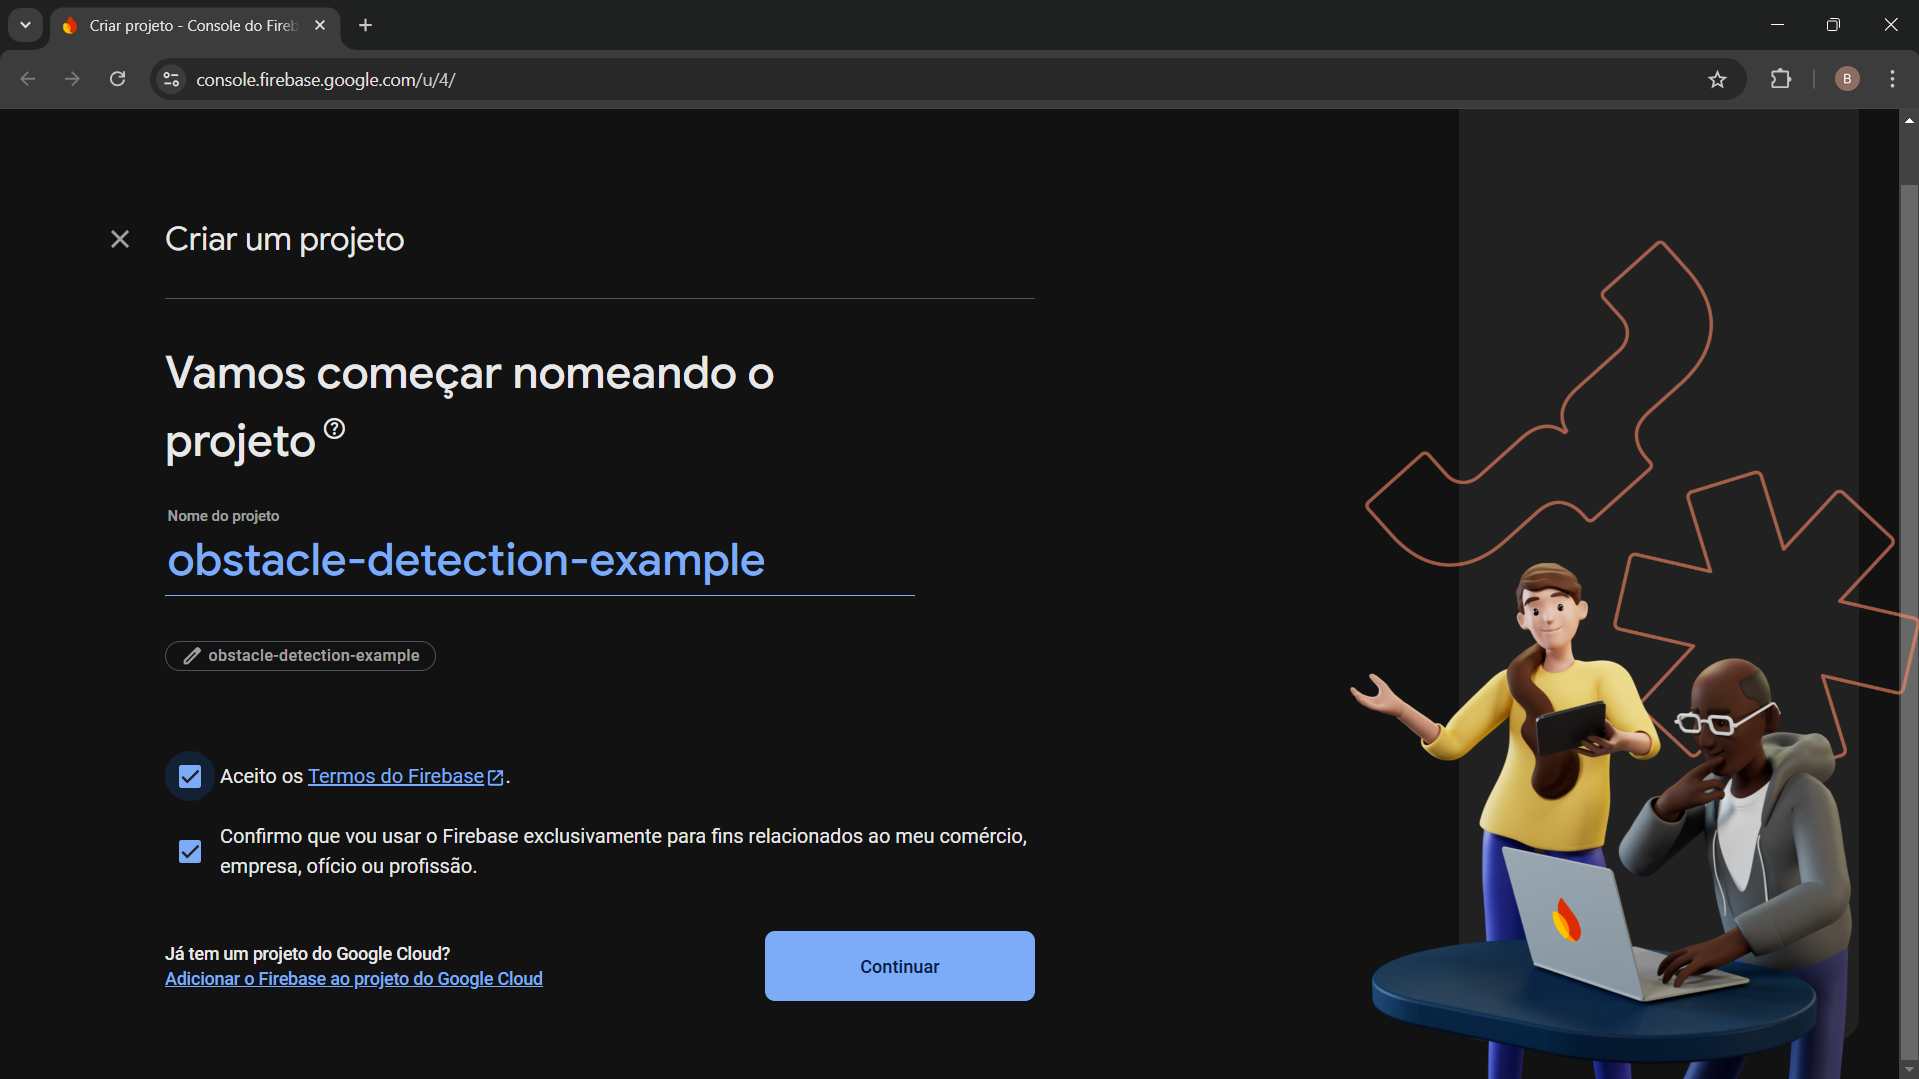
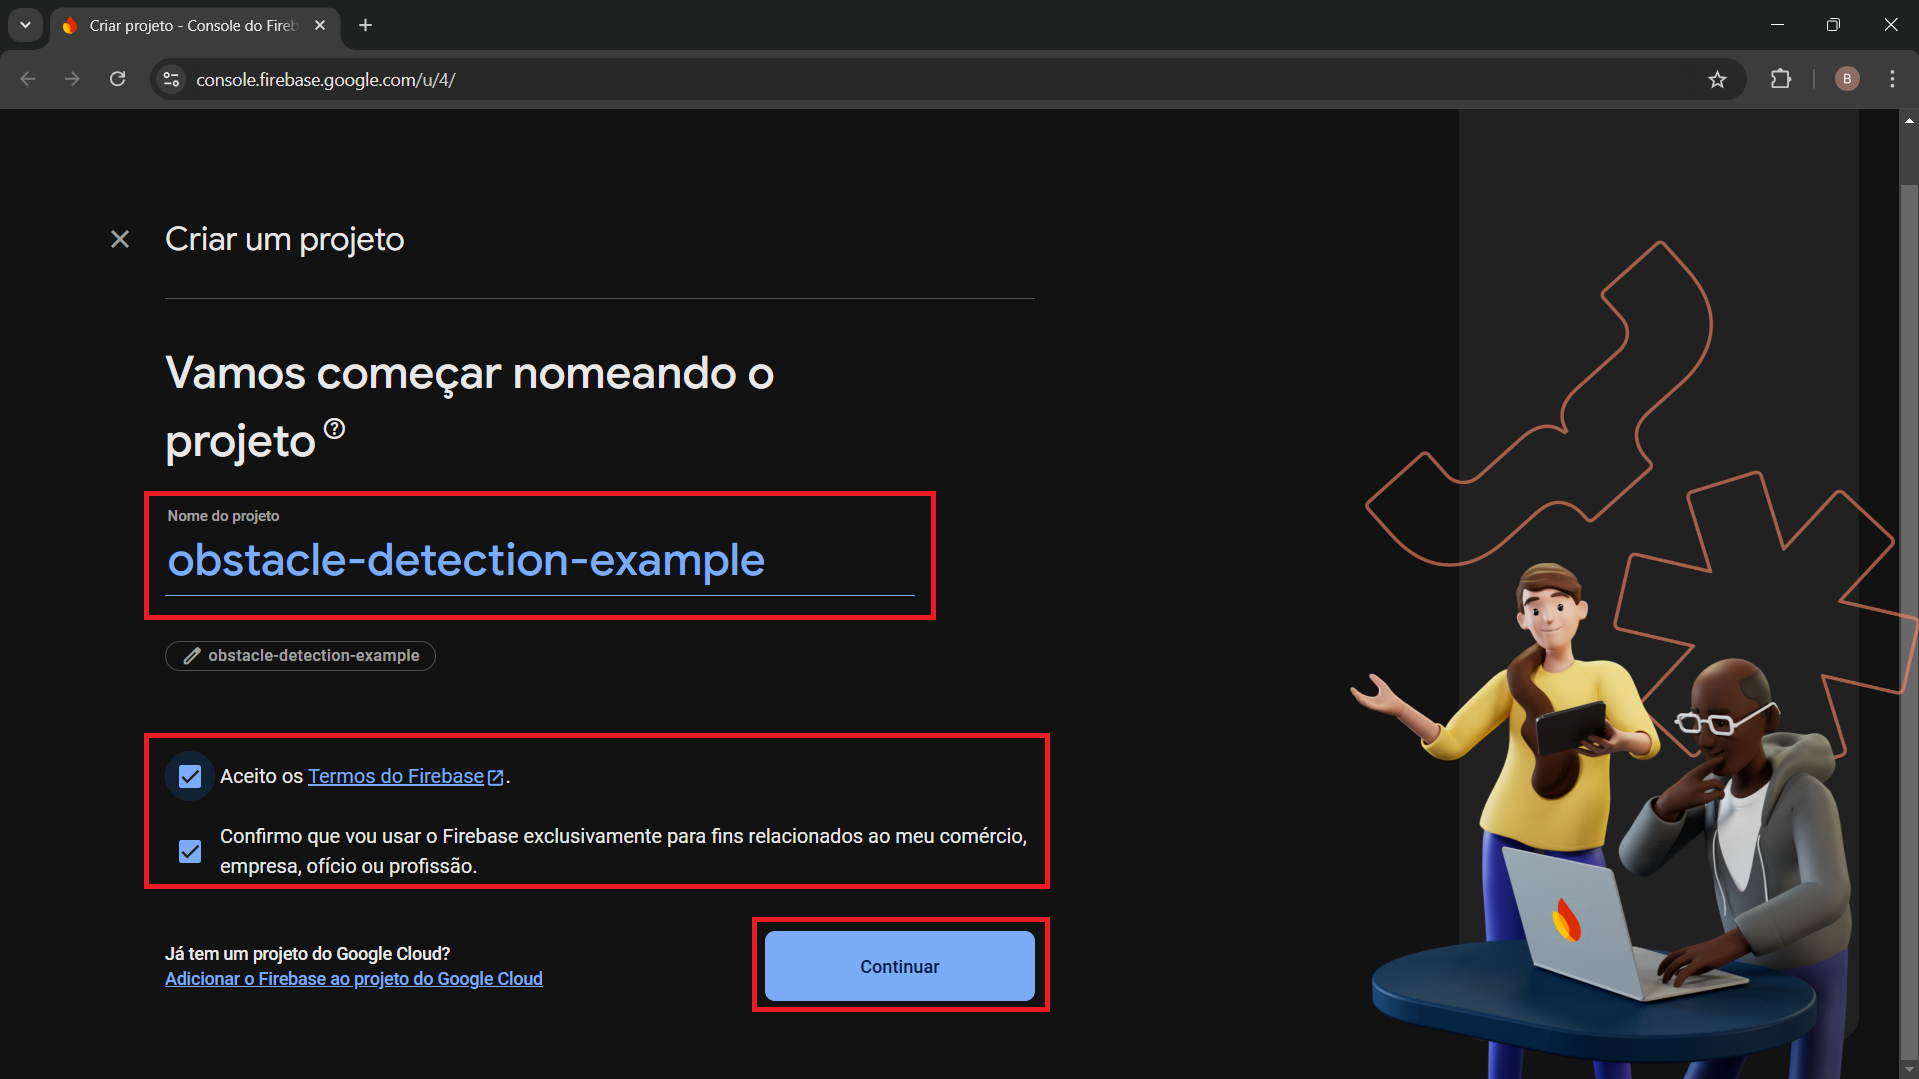
tutorial firebase 3

diff --git a/credenciais/README.md b/credenciais/README.md
@@ -8,8 +8,115 @@
   <img width="70%" src="img/1-Inicio.png" />
 </p>
 
-- Crie o projeto com qualquer nome:
+- Crie o projeto com qualquer nome, aceite os termos do Firebase e clique em **Continuar**:
 
 <p align="center">
   <img width="70%" src="img/2-Criar um projeto.png" />
+</p>
+
+- Ativar o **Google Analytics** é opcional. Clique em **Continuar**:
+
+<p align="center">
+  <img width="70%" src="img/3-Google Analytics.png" />
+</p>
+
+- Caso tenha ativado o **Google Analytics**, configure-o e clique em **Criar Projeto**
+
+<p align="center">
+  <img width="70%" src="img/4-Configurar o Google Analytics.png" />
+</p>
+
+- O proejto foi criado. Clique em **Continuar**:
+
+<p align="center">
+  <img width="70%" src="img/5-Projeto pronto.png" />
+</p>
+
+- Vá para **Configurações do Projeto**:
+
+<p align="center">
+  <img width="70%" src="img/6-Configuracao do Projeto.png" />
+</p>
+
+- Em seguida, acesse a aba **Contas de serviço**, selecione a opção **Python** e clique em **Gerar nova chave privada**.
+
+<p align="center">
+  <img width="70%" src="img/7-Contas de Servico.png" />
+</p>
+
+- Após o passo anterior, será baixado um arquivo **JSON**. Esse arquivo deve ser copiado para a pasta **credenciais**, localizada na raiz do projeto, no diretório: *obstacle-detection\credenciais*.
+
+<p align="center">
+  <img width="70%" src="img/8-Pasta Credenciais.png" />
+</p>
+
+- Volte ao menu principal do Firebase, acesse o menu lateral **Criação** e selecione **Storage**.
+
+<p align="center">
+  <img width="70%" src="img/9-Criar Storage.png" />
+</p>
+
+- Nesse momento, para utilizar o **Storage**, será exigido um upgrade da conta para o plano **Blaze**, uma medida adotada pelo Firebase desde 30/10/2024. Mais detalhes podem ser encontrados nos seguintes portais:
+https://firebase.google.com/docs/storage/web/start?hl=pt#before-you-begin
+https://firebase.google.com/pricing?hl=pt-br
+Porém, ainda é possível utilizar o **Storage** gratuitamente, desde que não ultrapasse o limite de uso. Então, clique em **Fazer upgrade do projeto** e, em seguida, em **Criar uma conta do Cloud Billing**. Será necessário informar os dados de um cartão de crédito para possíveis cobranças adicionais:
+
+<p align="center">
+  <img width="70%" src="img/10-Storage.png" />
+</p>
+
+<p align="center">
+  <img width="70%" src="img/11-Criar Conta Cloud Billing.png" />
+</p>
+
+- Após concluir o processo anterior, é possível prosseguir com a criação do **Storage**. Clique em **Começar**:
+
+<p align="center">
+  <img width="70%" src="img/12-Storage Comecar.png" />
+</p>
+
+- Na configuração do **Bucket**, mantenha todas as opções padrão e clique em **Continuar**:
+
+<p align="center">
+  <img width="70%" src="img/13-Storage Opcoes de Bucket.png" />
+</p>
+
+- Na configuração de **Regras de segurança**, selecione a opção Iniciar no modo de teste e clique em **Criar**:
+
+<p align="center">
+  <img width="70%" src="img/14-Storage Regras de Seguranca.png" />
+</p>
+
+- Após a criação do **Storage**, acesse a aba **Regras**, altere o código para permitir acesso até uma data mais posterior e clique em **Publicar**:
+
+<p align="center">
+  <img width="70%" src="img/15-Storage Editar Regras de Seguranca.png" />
+</p>
+
+- Volte para a aba **Arquivos** e crie duas pastas com os nomes **imagens** e **models**:
+
+<p align="center">
+  <img width="70%" src="img/16-Storage Criar Pastas.png" />
+</p>
+
+- Ficando da seguinte forma:
+
+<p align="center">
+  <img width="70%" src="img/17-Storage Pastas Criadas.png" />
+</p>
+
+- Para finalizar, ainda no **Storage**, clique em **Copiar caminho do arquivo**:
+
+<p align="center">
+  <img width="70%" src="img/18-Copiar Caminho Storage.png" />
+</p>
+
+- Dentro do projeto, no arquivo **FirebaseHelper.py**, cole o caminho copiado no valor de **storageBucket** e remova a parte inicial do caminho, **gs://**, para que fique da seguinte forma:
+
+<p align="center">
+  <img width="70%" src="img/19-Alterar storageBucket.png" />
+</p>
+
+<p align="center">
+  <img width="70%" src="img/20-Alterar storageBucket finalizado.png" />
 </p>
